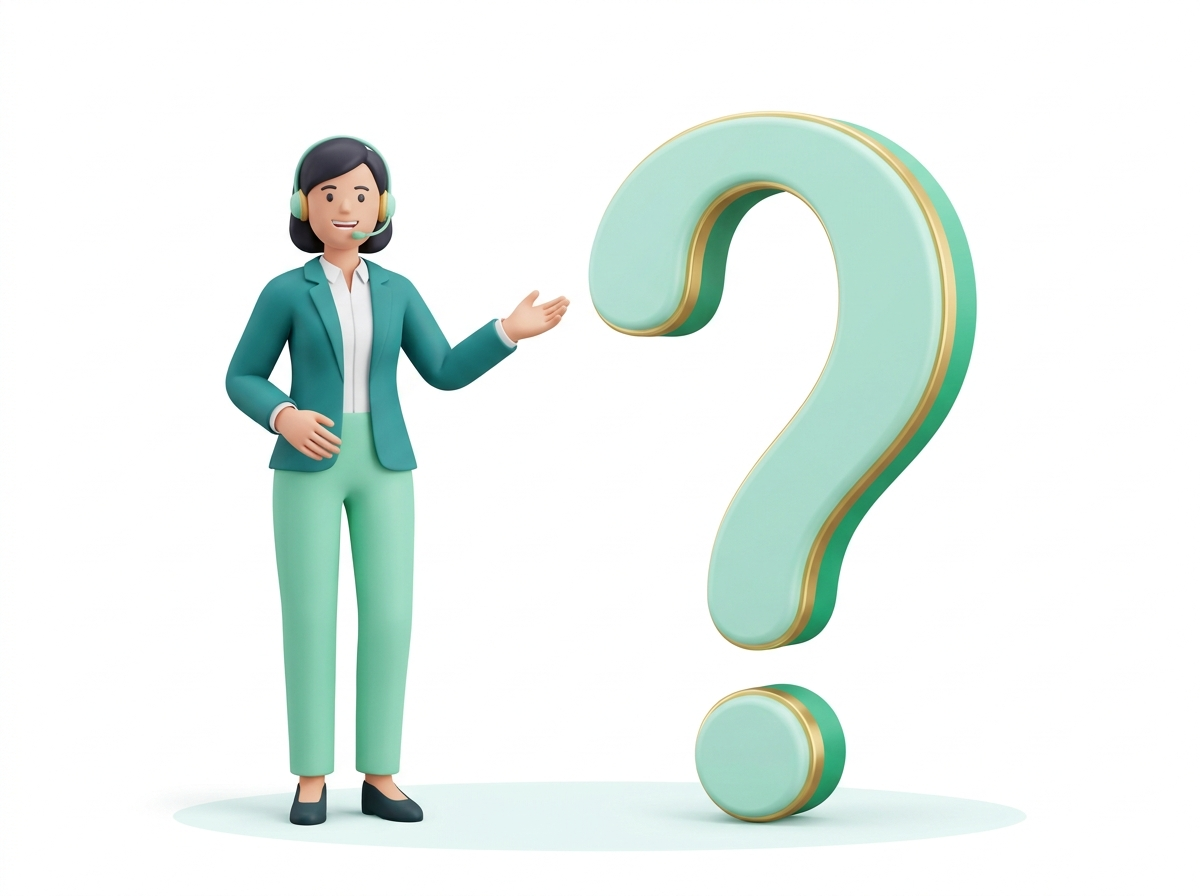
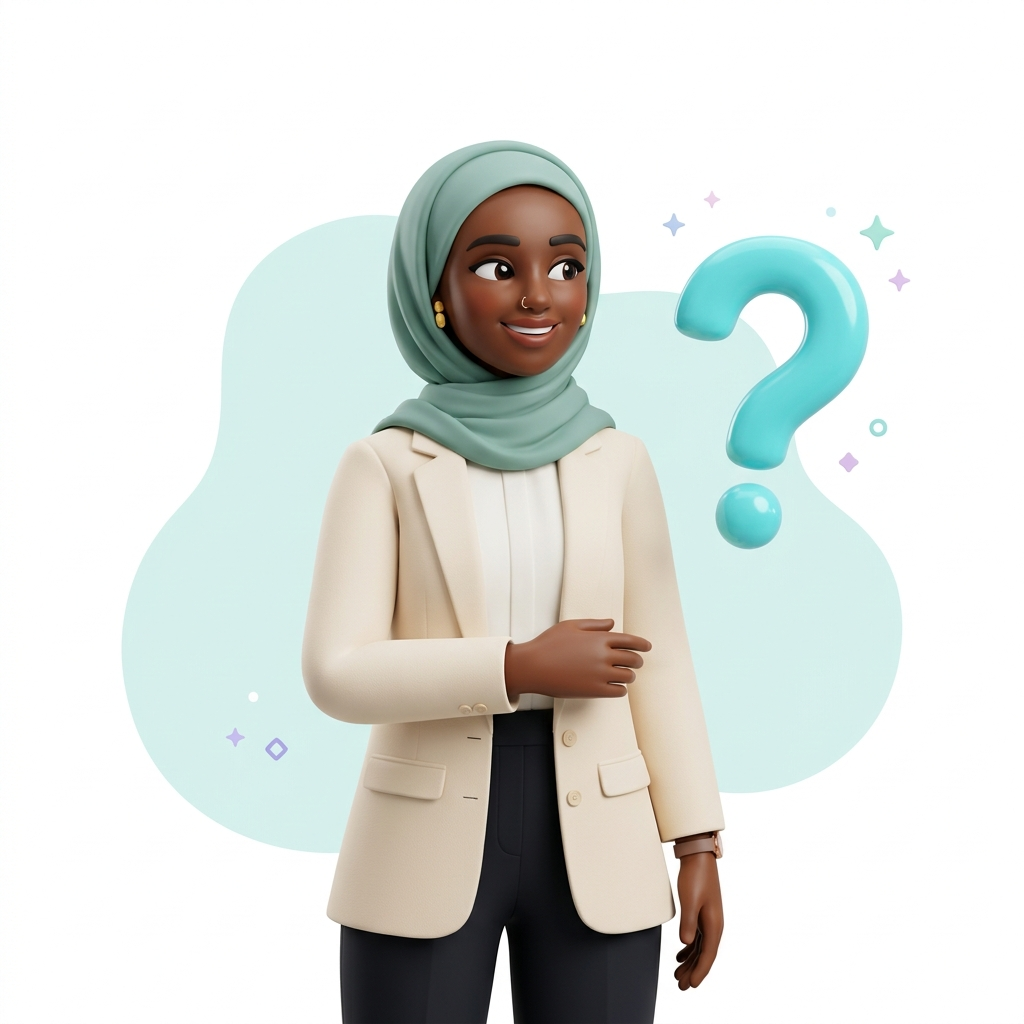
Update FAQ support illustration to modern 3D Muslim character wearing hijab

diff --git a/resources/views/public/faq.php b/resources/views/public/faq.php
@@ -692,7 +692,7 @@ $activeLang = $languagesList[$locale] ?? $languagesList['en'];
             <div>
                 <div class="faq-ask-card" id="anyQuestionCard">
                     <!-- Clean 3D Vector Illustration of Support Question -->
-                    <img src="assets/images/landing/faq-support-illustration.jpg" alt="SIMDA Support Guide" class="faq-ask-illustration">
+                    <img src="assets/images/landing/faq-support-illustration.jpg?v=2" alt="SIMDA Support Guide" class="faq-ask-illustration">
 
                     <h3><?= Security::e($t['any_q_title']) ?></h3>
                     <p><?= Security::e($t['any_q_desc']) ?></p>
